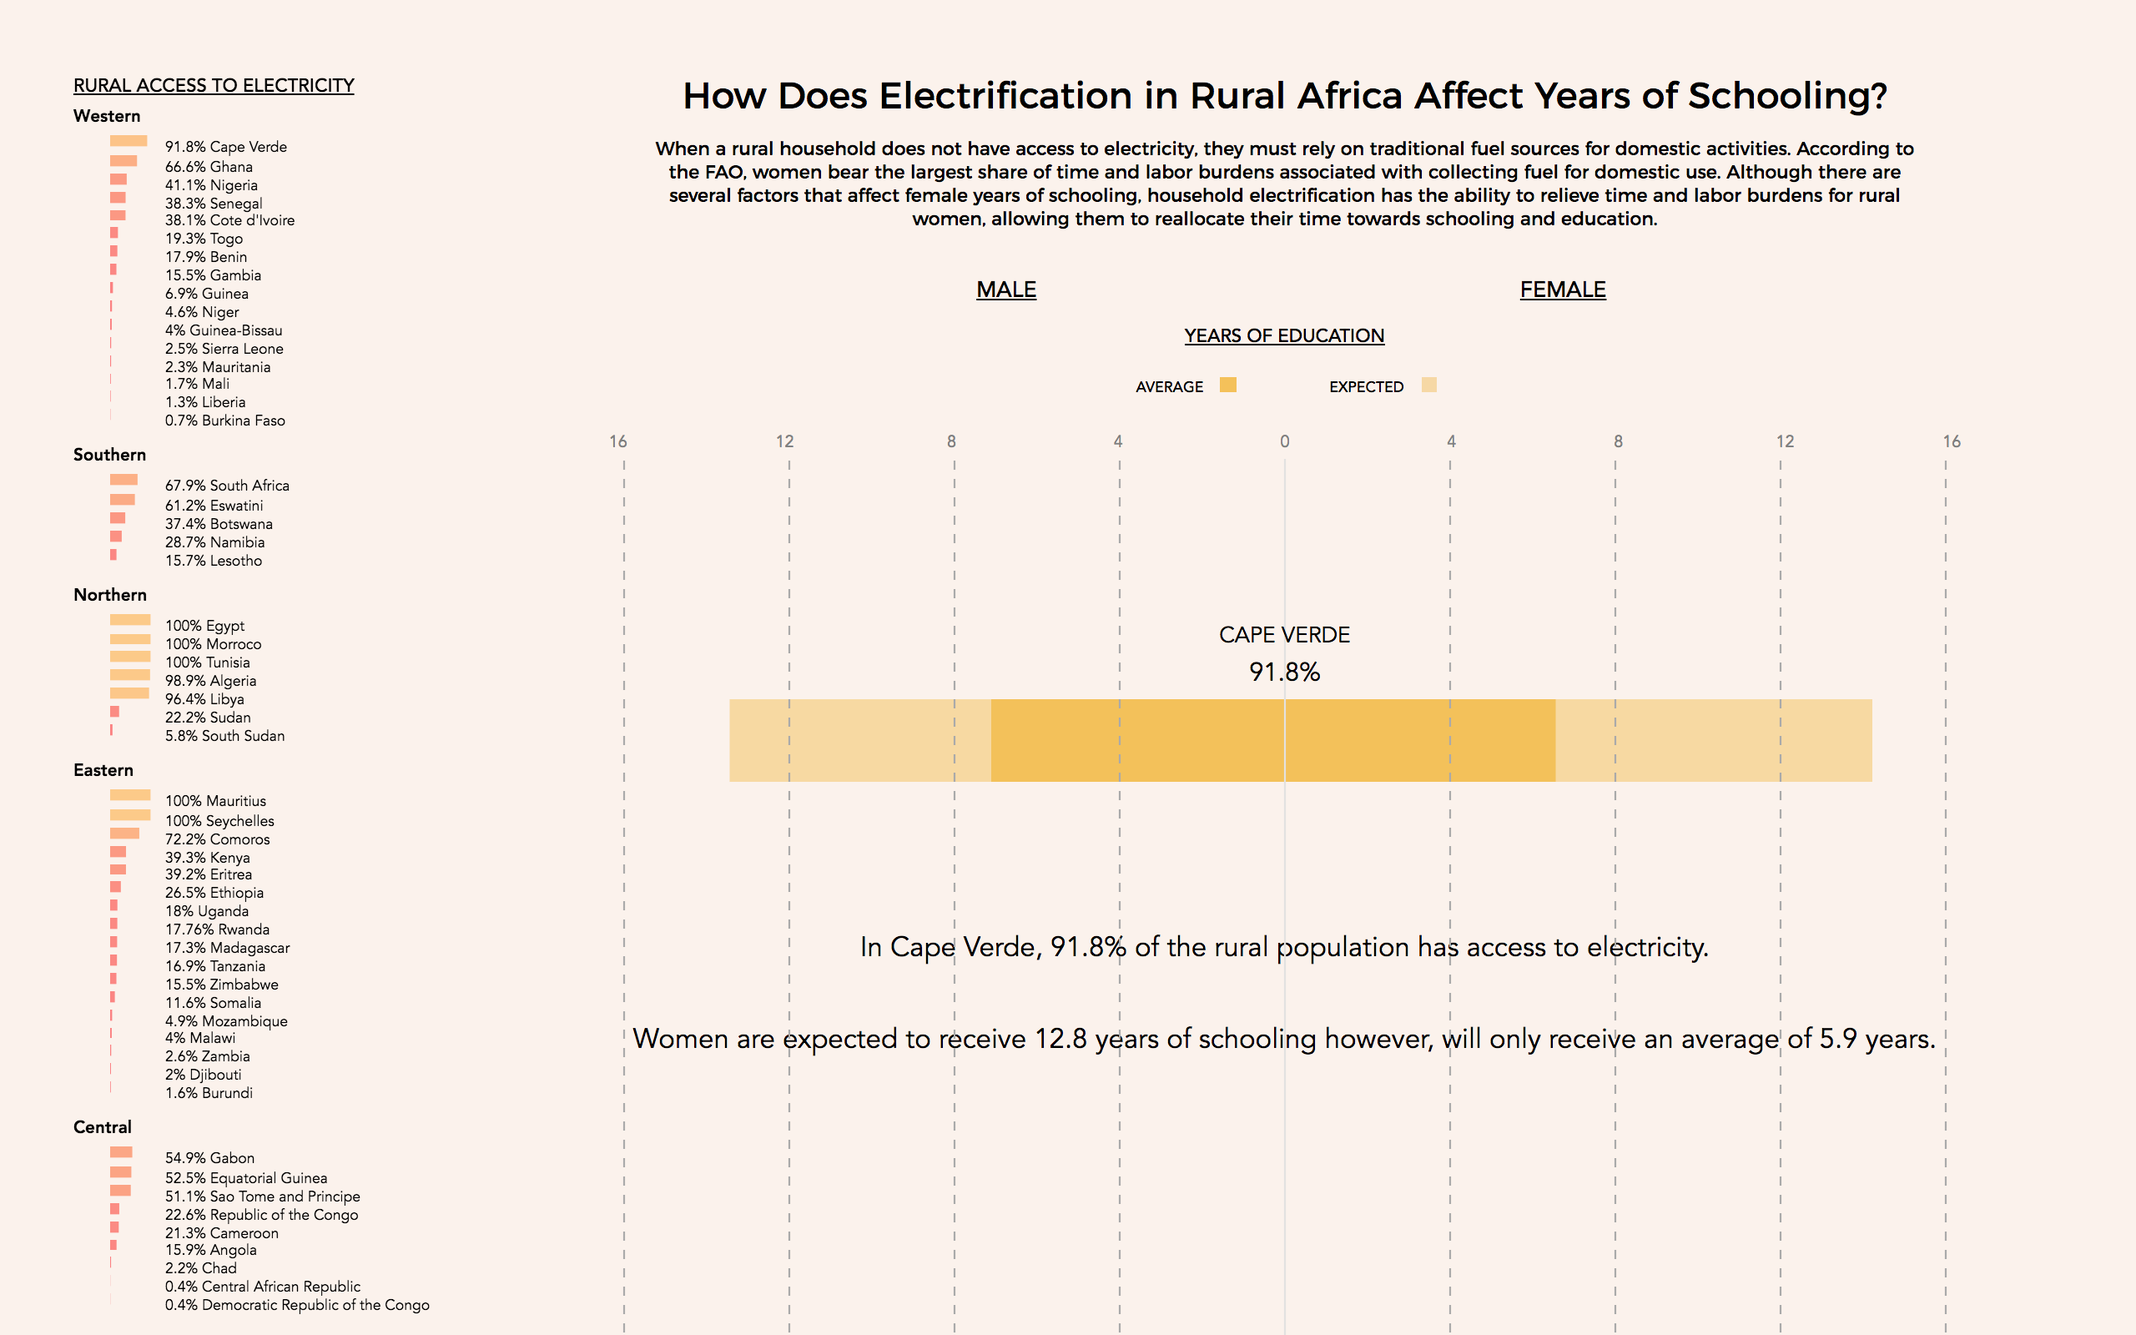
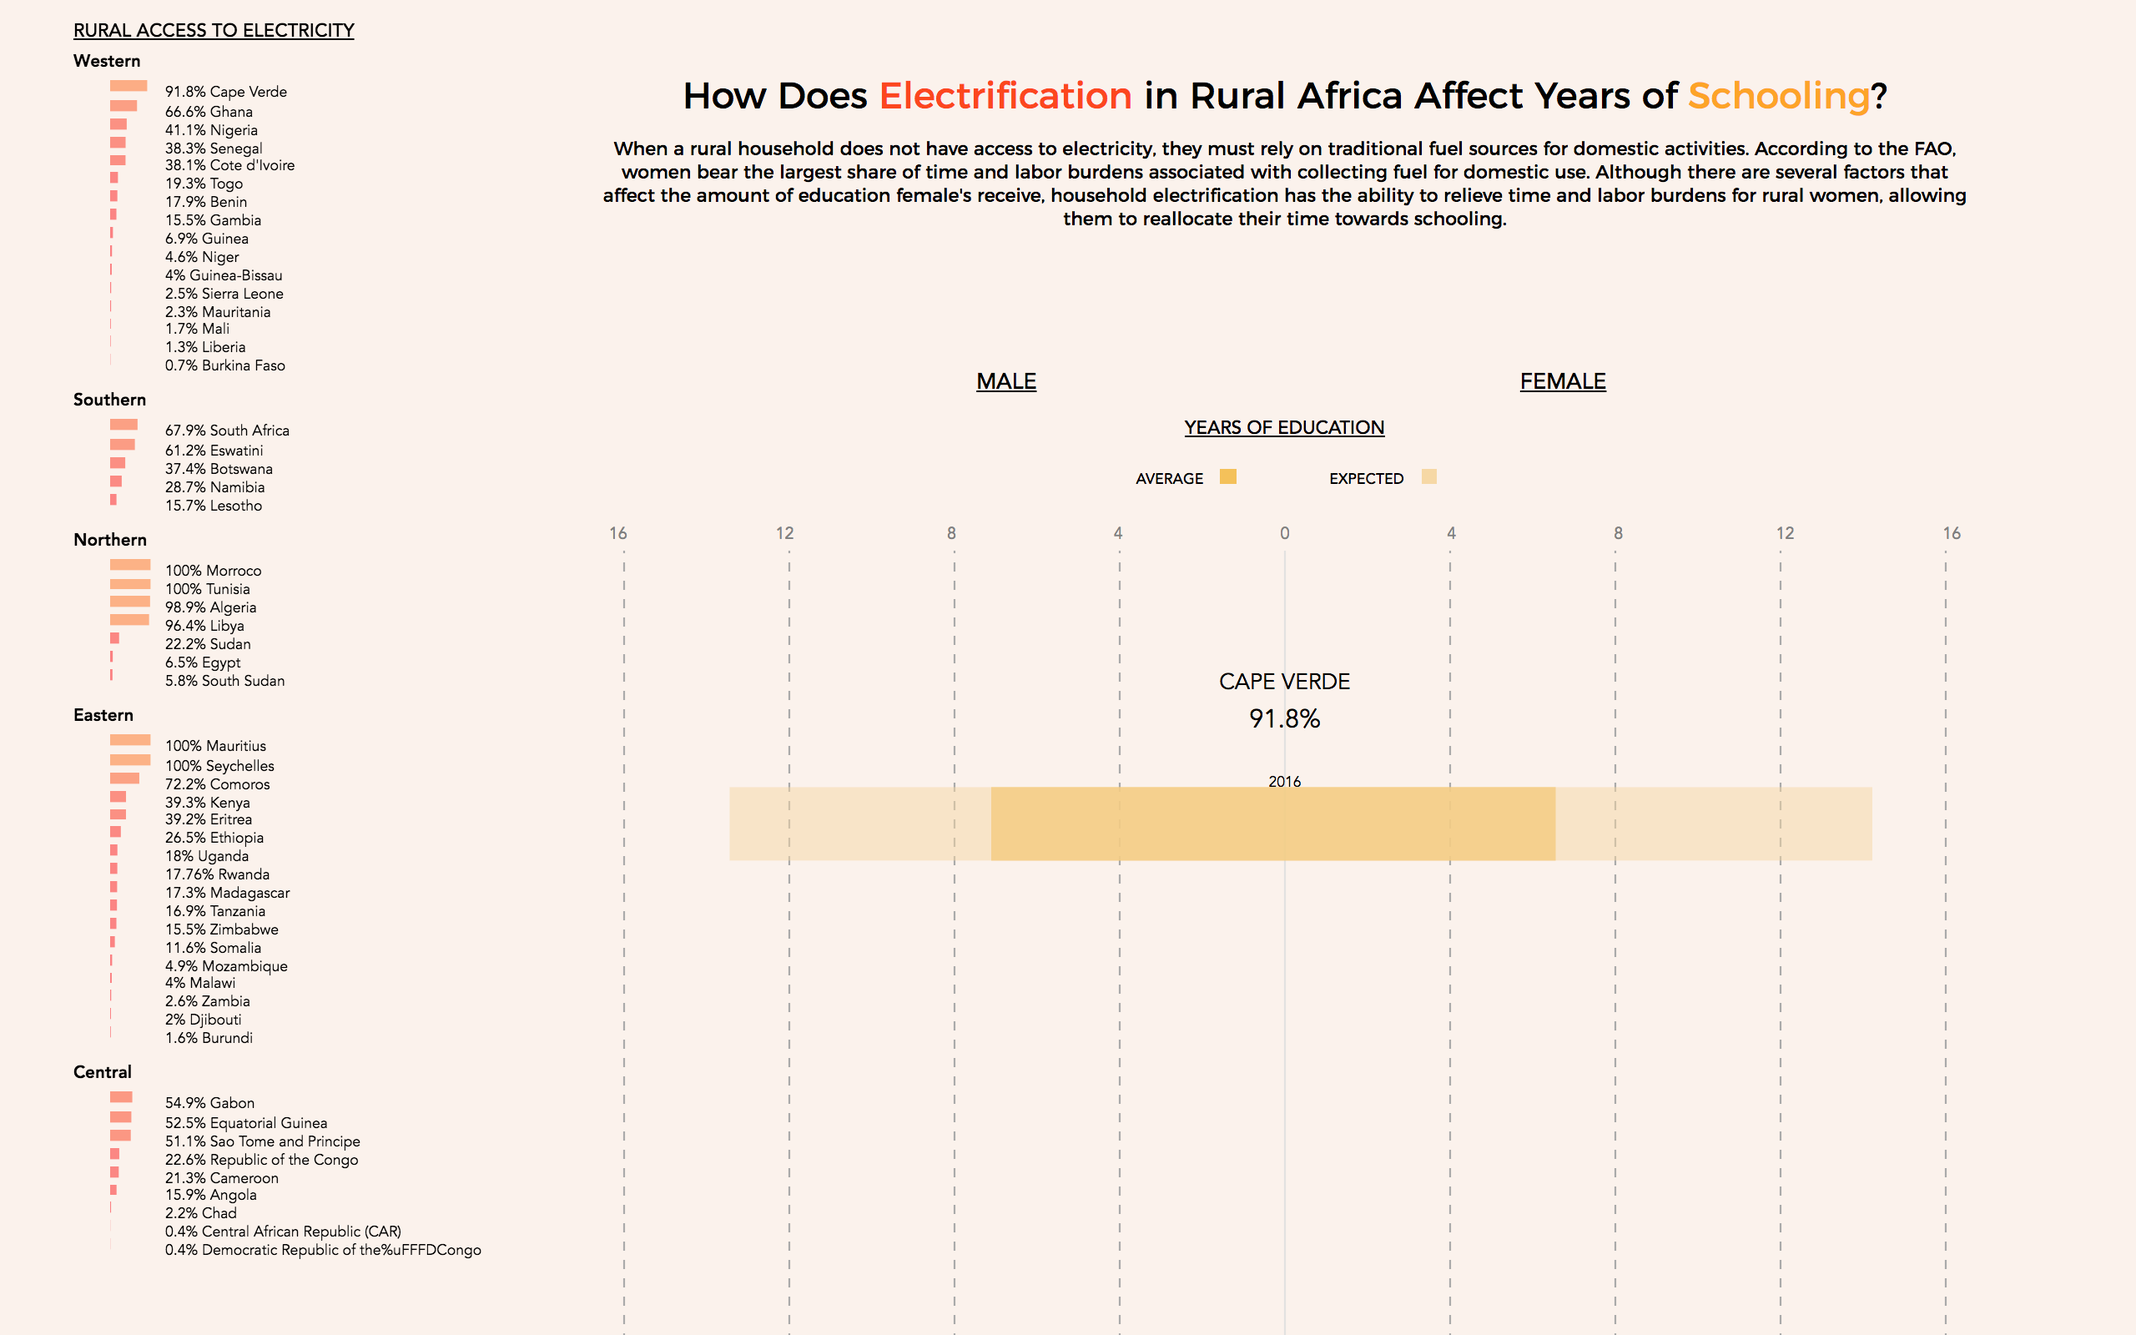
updated files

diff --git a/UNDPFinalProject/script.js b/UNDPFinalProject/script.js
@@ -1,8 +1,6 @@
 // load data set  
-//const data = d3.json("datatest.json");
-// const data = d3.json("newdata2.json");
 const data = d3.json("undpdata4.json");
-//const data = d3.json("egypt.json");
+
     
 data.then( items => {
                 console.log(items);
@@ -306,106 +304,23 @@ let svg = (items) => {
           .style("stroke", 'aaaaaa');
 
 
-// style the text for the sentence 
-    sentenceOne.attr('x', 400)
-        .attr('y', (items, i) => { return 500 + 400*i; })
-        .attr("text-anchor", "middle")
-        .style("font-size", "15px") 
-        .style('fill', 'black')
-        .text((d,i) => { return "In" + " " + (items[i].Country) + "," +  " " + (items[i].RuralElec) 
-        + "% of the rural population has access to electricity."; });
+// // style the text for the sentence 
+//     sentenceOne.attr('x', 400)
+//         .attr('y', (items, i) => { return 575 + 400*i; })
+//         .attr("text-anchor", "middle")
+//         .style("font-size", "15px") 
+//         .style('fill', 'black')
+//         .text((d,i) => { return "In" + " " + (items[i].Country) + "," +  " " + (items[i].RuralElec) 
+//         + "% of the rural population has access to electricity."; });
         
-// style the text for the sentence 
-    sentenceTwo.attr('x', 400)
-        .attr('y', (items, i) => { return 550 + 400*i; })
-        .attr("text-anchor", "middle")
-        .style("font-size", "15px") 
-        .style('fill', 'black')
-        .text((d,i) => { return "Women are expected to receive" + " " + (items[i].FemaleExpect) 
-        + " " + "years of schooling however, will only receive an average of" + " " + (items[i].FemaleMean2016) + " " + "years."; });
-        
-//  // style the bars (=rectangles) Female Mean Education 
-//     rectFemaleExpect.attr('width', (d,i) => { return scale(items[i].FemaleMean2016); })
-//         .attr('height', 8)
-//         .attr('x', 400)
-//         .attr('y', (items, i) => { return 360 + 400*i; })
-//         .attr('fill', '#f5c250')
-//         .attr('id', (d) => { return d.Country+"_fem_mean_2016"; });
-        
-//  // style the bars (=rectangles) Female Mean Education 
-//     rectFemaleMean2015.attr('width', (d,i) => { return scale(items[i].FemaleMean2015); })
-//         .attr('height', 8)
-//         .attr('x', 400)
-//         .attr('y', (items, i) => { return 370 + 400*i; })
-//         .attr('fill', '#f5c250')
-//         .attr('id', (d) => { return d.Country+"_fem_mean_2015"; });
-
-//  // style the bars (=rectangles) Female Mean Education 
-//     rectFemaleMean2010.attr('width', (d,i) => { return scale(items[i].FemaleMean2010); })
-//         .attr('height', 8)
-//         .attr('x', 400)
-//         .attr('y', (items, i) => { return 380 + 400*i; })
-//         .attr('fill', '#f5c250')
-//         .attr('id', (d) => { return d.Country+"_fem_mean_2010"; });
-
-//  // style the bars (=rectangles) Female Mean Education 
-//     rectFemaleMean2005.attr('width', (d,i) => { return scale(items[i].FemaleMean2005); })
-//         .attr('height', 8)
-//         .attr('x', 400)
-//         .attr('y', (items, i) => { return 390 + 400*i; })
-//         .attr('fill', '#f5c250')
-//         .attr('id', (d) => { return d.Country+"_fem_mean_2005"; });
-
-//  // style the bars (=rectangles) Female Mean Education 
-//     rectFemaleMean2000.attr('width', (d,i) => { return scale(items[i].FemaleMean2000); })
-//         .attr('height', 8)
-//         .attr('x', 400)
-//         .attr('y', (items, i) => { return 400 + 400*i; })
-//         .attr('fill', '#f5c250')
-//         .attr('id', (d) => { return d.Country+"_fem_mean_2000"; });
-        
-//  // style the bars (=rectangles) Female Mean Education 
-//     rectFemaleMean1995.attr('width', (d,i) => { return scale(items[i].FemaleMean1995); })
-//         .attr('height', 8)
-//         .attr('x', 400)
-//         .attr('y', (items, i) => { return 410 + 400*i; })
-//         .attr('fill', '#f5c250')
-//         .attr('id', (d) => { return d.Country+"_fem_mean_1995"; });
-
-//  // style the bars (=rectangles) Female Mean Education 
-//     rectFemaleMean1990.attr('width', (d,i) => { return scale(items[i].FemaleMean1990); })
-//         .attr('height', 8)
-//         .attr('x', 400)
-//         .attr('y', (items, i) => { return 420 + 400*i; })
-//         .attr('fill', '#f5c250')
-//         .attr('id', (d) => { return d.Country+"_fem_mean_1990"; });
-
-//  // style the bars (=rectangles) Female Expected Education 
-//     rectFemaleExpect.attr('width', (d,i) => { return scale(items[i].FemaleExpect); })
-//         .attr('height', 45)
-//         .attr('x', 400)
-//         .attr('y', (items, i) => { return 360 + 400*i; })
-//         .attr('fill', '#f5c250')
-//         .attr("fill-opacity", 0.5)
-//         .attr('id', (d) => { return d.Country+"_fem_exp"; });
-
-//  // style the bars (=rectangles) Male Mean Education 
-//     rectMaleMean.attr('width', (d,i) => { return scale(items[i].MaleMean); })
-//         .attr('height', 45)
-//         .attr('x', (d,i) => { return 400-scale(items[i].MaleMean); })
-//         .attr('y', (items, i) => { return 360 + 400*i; })
-//         .attr('fill', '#f5c250')
-//         .attr('id', (d) => { return d.Country+"_mal_mean"; });
-        
-//  // style the bars (=rectangles) Male Expected Education 
-//     rectMaleExpect.attr('width', (d,i) => { return scale(items[i].MaleExpect); })
-//         .attr('height', 45)
-//         .attr('x', (d,i) => { return 400-scale(items[i].MaleExpect); })
-//         .attr('y', (items, i) => { return 360 + 400*i; })
-//         .attr('fill', '#f5c250')
-//         .attr("fill-opacity", 0.5)
-//         .attr('id', (d) => { return d.Country+"_mal_exp"; });
-
+// // style the text for the sentence 
+//     sentenceTwo.attr('x', 400)
+//         .attr('y', (items, i) => { return 625 + 400*i; })
+//         .attr("text-anchor", "middle")
+//         .style("font-size", "15px") 
+//         .style('fill', 'black')
+//         .text((d,i) => { return "Women are expected to receive" + " " + (items[i].FemaleExpect) 
+//         + " " + "years of schooling however, will only receive an average of" + " " + (items[i].FemaleMean2016) + " " + "years."; });
 
 // Countries to list for Country div   
    items.forEach( (item, i) => {
@@ -422,56 +337,184 @@ let svg = (items) => {
             .style('font-size', '6px')
             .style('font-weight', '400');
         
-        let countrySVG = country.append("svg").attr('id', (item.Country))
-            .attr('width', 800);
+        let countrySVG = country.append("svg")
+            .attr('id', (item.Country))
+            .attr('width', 800)
+            .attr('height', 200)
+            .on('mouseover', () => {
+                console.log('hi')
+                d3.selectAll(".toggle").attr('class', 'toggle normal');
+                d3.select("#subtitle").html("Women are expected to receive" + item.Country)
+            })
+            .on('mouseout', () => {
+                console.log('bye')
+                d3.selectAll(".toggle").attr('class', 'toggle hidden');
+            });
+            
+            // .on('mouseout', function(d) {
+            //     		d3.select(this).select('text')
+            //     		    .text((d) => { return d.name; })
+
+            //     		d3.select(this).select('rect')
+            // 				.style('fill', 'black');
+            //         });
             
         // Loop for multiple rectangles by year 
         for (var m = 6; m>=0; m--) {
+            
+            // Text for year of rectangle 
             countrySVG
                 .append("text")
                 .text(item.Female.Expect[m].year)
                 .attr('x', 400)
-                .attr('y', (items, i) => { return 10*(6-m); });
+                .attr('y', () => {
+                    if (item.Female.Expect[m].year == '2016') {
+                        return 17*(7-m)
+                    } else {
+                        return 30+(17*(7-m))
+                    }
+                })
+                .style('font-size', '8px')
+                .style('text-anchor', 'middle')
+                .attr('class', () => {
+                    if (item.Female.Expect[m].year != '2016') {
+                        return 'toggle hidden'
+                    }
+                });
+            
+            // // Text for value of rectangle 
+            // countrySVG
+            //     .append("text")
+            //     .text(item.Female.Expect[m].value)
+            //     .attr('x', (d,i) => { return 400+scale(item.Female.Mean[m].value); })
+            //     .attr('y', () => {
+            //         if (item.Female.Expect[m].year == '2016') {
+            //             return 17*(7-m)
+            //         } else {
+            //             return 30+(17*(7-m))
+            //         }
+            //     })
+            //     .style('font-size', '8px')
+            //     .style('text-anchor', 'middle')
+            //     .attr('class', () => {
+            //         if (item.Female.Expect[m].year != '2016') {
+            //             return 'toggle hidden'
+            //         }
+            //     });
             
             //Styling Female Mean
             countrySVG    
                 .append("rect")
                 .attr('width', (d,i) => { return scale(item.Female.Mean[m].value); })
-                .attr('height', 8)
+                .attr('height', 10)
+                .attr('height', () => {
+                    if (item.Female.Expect[m].year == '2016') {
+                        return 40
+                    } else {
+                        return 10
+                    }
+                })
                 .attr('x', 400)
-                .attr('y', (items, i) => { return 10*(6-m); })
+                .attr('y', () => {
+                    if (item.Female.Expect[m].year == '2016') {
+                        return 17*(7-m)
+                    } else {
+                        return 30+(17*(7-m))
+                    }
+                })
                 .attr('fill', '#f5c250')
-                .attr('id', () => { return item.Country+"_fem_mean_2016"; });
+                .attr("fill-opacity", 0.8)
+                .attr('id', () => { return item.Country+"_fem_mean_2016"; })
+                .attr('class', () => {
+                    if (item.Female.Expect[m].year != '2016') {
+                        return 'toggle hidden'
+                    }
+                });
+                
                 
             //Styling Female Expect
             countrySVG    
                 .append("rect")
                 .attr('width', (d,i) => { return scale(item.Female.Expect[m].value); })
-                .attr('height', 8)
+                .attr('height', () => {
+                    if (item.Female.Expect[m].year == '2016') {
+                        return 40
+                    } else {
+                        return 10
+                    }
+                })
                 .attr('x', 400)
-                .attr('y', (items, i) => { return 10*(6-m); })
+                .attr('y', () => {
+                    if (item.Female.Expect[m].year == '2016') {
+                        return 17*(7-m)
+                    } else {
+                        return 30+(17*(7-m))
+                    }
+                })
                 .attr('fill', '#f7d9a2')
-                .attr('id', () => { return item.Country+"_fem_expect_2016"; });
+                .attr("fill-opacity", 0.5)
+                .attr('id', () => { return item.Country+"_fem_expect_2016"; })
+                .attr('class', () => {
+                    if (item.Female.Expect[m].year != '2016') {
+                        return 'toggle hidden'
+                    }
+                });
             
             //Styling Male Mean
             countrySVG    
                 .append("rect")
                 .attr('width', (d,i) => { return scale(item.Male.Mean[m].value); })
-                .attr('height', 8)
+                .attr('height', () => {
+                    if (item.Female.Expect[m].year == '2016') {
+                        return 40
+                    } else {
+                        return 10
+                    }
+                })
                 .attr('x', (d,i) => { return 400-scale(item.Male.Mean[m].value); })
-                .attr('y', (items, i) => { return 10*(6-m); })
+                .attr('y', () => {
+                    if (item.Female.Expect[m].year == '2016') {
+                        return 17*(7-m)
+                    } else {
+                        return 30+(17*(7-m))
+                    }
+                })
                 .attr('fill', '#f5c250')
-                .attr('id', () => { return item.Country+"_mal_mean_2016"; });
+                .attr("fill-opacity", 0.8)
+                .attr('id', () => { return item.Country+"_mal_mean_2016"; })
+                .attr('class', () => {
+                    if (item.Female.Expect[m].year != '2016') {
+                        return 'toggle hidden'
+                    }
+                });
             
             //Styling Male Expect
             countrySVG    
                 .append("rect")
                 .attr('width', (d,i) => { return scale(item.Male.Expect[m].value); })
-                .attr('height', 8)
+                .attr('height', () => {
+                    if (item.Female.Expect[m].year == '2016') {
+                        return 40
+                    } else {
+                        return 10
+                    }
+                })
                 .attr('x', (d,i) => { return 400-scale(item.Male.Expect[m].value); })
-                .attr('y', (items, i) => { return 10*(6-m); })
+                .attr('y', () => {
+                    if (item.Female.Expect[m].year == '2016') {
+                        return 17*(7-m)
+                    } else {
+                        return 30+(17*(7-m))
+                    }
+                })
                 .attr('fill', '#f7d9a2')
-                .attr('id', () => { return item.Country+"_mal_expect_2016"; });
+                .attr("fill-opacity", 0.5)
+                .attr('id', () => { return item.Country+"_mal_expect_2016"; })
+                .attr('class', () => {
+                    if (item.Female.Expect[m].year != '2016') {
+                        return 'toggle hidden'
+                    }
+                });
         }
     });
     

diff --git a/UNDPFinalProject/style.css b/UNDPFinalProject/style.css
@@ -9,7 +9,7 @@ body {
     margin: 0;
 }
 svg {
-    background: #fbf2ec;
+    /*background: #fbf2ec;*/
     /*margin: 10px 0 0 20px;*/
 }
 a {
@@ -22,7 +22,7 @@ a {
     left:290px;
     top:0px;
     width:820px;
-    height:150px;
+    height:200px;
     font-family: 'Avenir', serif;
     font-size: 12px;
     /*border: 2px solid pink;*/
@@ -39,7 +39,7 @@ a {
     background-color: #fbf2ec;
     position:fixed;
     left:290px;
-    top:150px;
+    top:200px;
     width:820px;
     height:100px;
     font-family: 'Avenir', serif;
@@ -104,9 +104,15 @@ a {
     text-align: center;
 }
 .country_anchor {
-    height: 280px;
+    height: 310px;
+    /*border: 2px solid black;*/
 }
-
+.hidden {
+    display:none;
+}
+.normal {
+    display:normal;
+}
 #titleLineOne {
     left:3%;
     top:20px;

diff --git a/UNDPFinalProject/index.html b/UNDPFinalProject/index.html
@@ -21,9 +21,6 @@
                 <div id="subtitle">
                     When a rural household does not have access to electricity, they must rely on traditional fuel sources for domestic activities. According to the FAO, women bear the largest share of time and labor burdens associated with collecting fuel for domestic use. Although there are several factors that affect the amount of education female's receive, household electrification has the ability to relieve time and labor burdens for rural women, allowing them to reallocate their time towards schooling. 
                 </div>
-            <p id="one">
-                1
-            </p>
             </div>
         </div>
         <div id="header">

diff --git a/UNDPFinalProject/README.md b/UNDPFinalProject/README.md
@@ -1,0 +1,9 @@
+## How Does Electrification in Rural Africa Affect Years of Schooling?
+
+### Description 
+
+#### Using a gender lens, this visualization explores how access to electricity in rural Africa affects years of schooling. When a rural household does not have access to electricity, they must rely on traditional fuel sources for domestic activities. According to the FAO, women bear the largest share of time and labor burdens associated with collecting fuel for domestic use. While there are several factors that affect the amount of education female's receive, household electrification has the ability to relieve time and labor burdens for rural women, allowing them to reallocate their time towards schooling. 
+
+### Image
+
+![image](UNDP_Project.png)
